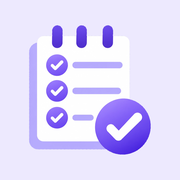
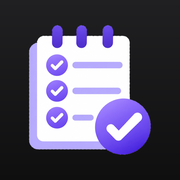
Donker iPhone-icoon, zoals de andere apps in de donkere modus
apple-touch-icon.png had een lichtlila vlak en viel daardoor als lichte
tegel op tussen de donkere. Hij krijgt nu hetzelfde donkere verloop als de
tegels van andere apps; Android houdt de lila achtergrond.

diff --git a/index.html b/index.html
@@ -4,9 +4,9 @@
     <meta charset="UTF-8" />
     <!-- ?v= ophogen bij een nieuw logo: browsers bewaren een favicon soms
          dagenlang en halen hem alleen opnieuw op als het adres verandert. -->
-    <link rel="icon" type="image/png" sizes="32x32" href="/mijn-taken/favicon-32.png?v=3" />
-    <link rel="icon" type="image/png" sizes="64x64" href="/mijn-taken/favicon-64.png?v=3" />
-    <link rel="apple-touch-icon" href="/mijn-taken/apple-touch-icon.png?v=3" />
+    <link rel="icon" type="image/png" sizes="32x32" href="/mijn-taken/favicon-32.png?v=4" />
+    <link rel="icon" type="image/png" sizes="64x64" href="/mijn-taken/favicon-64.png?v=4" />
+    <link rel="apple-touch-icon" href="/mijn-taken/apple-touch-icon.png?v=4" />
 
     <!-- viewport-fit=cover laat de app onder de notch en de thuisbalk door
          lopen; index.css vangt dat op met safe-area-insets. -->

diff --git a/scripts/maak-iconen.py b/scripts/maak-iconen.py
@@ -1,8 +1,9 @@
 """Maakt alle iconen in public/ uit scripts/logo.png.
 
 Het logo is doorzichtig. Een app-icoon mag dat niet zijn - iOS maakt van
-doorzichtig zwart, Android een grijs vlak - dus die krijgen een zachte lila
-achtergrond. De favicon blijft wel doorzichtig: in een tabblad hoort geen
+doorzichtig zwart, Android een grijs vlak - dus die krijgen een achtergrond:
+op de iPhone donker, net als de andere apps in de donkere modus, op Android
+een zachte lila. De favicon blijft wel doorzichtig: in een tabblad hoort geen
 blok om het logo heen.
 
     python scripts/maak-iconen.py
@@ -19,15 +20,30 @@ PUBLIC = HIER.parent / "public"
 
 # Licht genoeg om het witte blad te laten staan, paars genoeg om bij de rest
 # van de app te horen.
-ACHTERGROND = (237, 233, 254, 255)
+LILA = (237, 233, 254)
+
+# Gemeten op de tegels van andere apps op een iPhone in de donkere modus: van
+# boven iets lichter naar onder iets donkerder. Een web-app kan iOS geen
+# aparte donkere variant geven, dus het beginschermicoon is altijd deze.
+DONKER_BOVEN = (32, 32, 34)
+DONKER_ONDER = (15, 15, 16)
 
 logo = Image.open(HIER / "logo.png").convert("RGBA")
 
 
-def op_vlak(schaal_logo: float, maat: int) -> Image.Image:
+def verloop(boven: tuple, onder: tuple, maat: int) -> Image.Image:
+    vlak = Image.new("RGBA", (maat, maat))
+    for y in range(maat):
+        t = y / (maat - 1)
+        kleur = tuple(round(a + (b - a) * t) for a, b in zip(boven, onder)) + (255,)
+        vlak.paste(kleur, (0, y, maat, y + 1))
+    return vlak
+
+
+def op_vlak(schaal_logo: float, maat: int, donker: bool = False) -> Image.Image:
     """Het logo op de achtergrond, `schaal_logo` van de breedte groot."""
     groot = 1024
-    vlak = Image.new("RGBA", (groot, groot), ACHTERGROND)
+    vlak = verloop(DONKER_BOVEN, DONKER_ONDER, groot) if donker else verloop(LILA, LILA, groot)
     zijde = round(groot * schaal_logo)
     klein = logo.resize((zijde, zijde), Image.LANCZOS)
     vlak.alpha_composite(klein, ((groot - zijde) // 2, (groot - zijde) // 2))
@@ -37,7 +53,7 @@ def op_vlak(schaal_logo: float, maat: int) -> Image.Image:
 # Gewone iconen. iOS rondt de hoeken zelf af, Android ook als het wil.
 op_vlak(0.78, 512).save(PUBLIC / "icoon-512.png", optimize=True)
 op_vlak(0.78, 192).save(PUBLIC / "icoon-192.png", optimize=True)
-op_vlak(0.78, 180).save(PUBLIC / "apple-touch-icon.png", optimize=True)
+op_vlak(0.78, 180, donker=True).save(PUBLIC / "apple-touch-icon.png", optimize=True)
 
 # Maskable: Android knipt er een cirkel, druppel of squircle uit. Alles wat
 # ertoe doet moet binnen de cirkel van 40% van de breedte vallen. Het logo is

diff --git a/README.md b/README.md
@@ -278,8 +278,12 @@ na een halve minuut of langer terugkomt op het tabblad.
 
 De iconen in `public/` - app-icoon, maskable icoon voor Android,
 apple-touch-icon en favicon - komen allemaal uit `scripts/logo.png`, een
-doorzichtig logo. De app-iconen krijgen een zachte lila achtergrond (een
-doorzichtig app-icoon wordt op iOS zwart), de favicon blijft doorzichtig.
+doorzichtig logo. Een app-icoon kan niet doorzichtig zijn (iOS maakt er zwart
+van), dus het iPhone-icoon krijgt een donkere achtergrond zoals de andere
+apps in de donkere modus, en de Android-iconen een zachte lila. Een web-app
+kan iOS geen aparte lichte en donkere variant geven. De favicon blijft
+doorzichtig. Na een nieuw icoon het `?v=` in `index.html` ophogen; op een
+iPhone moet je de app daarna opnieuw aan het beginscherm toevoegen.
 Nieuw logo? Die afbeelding vervangen en
 `python scripts/maak-iconen.py`
 draaien.
